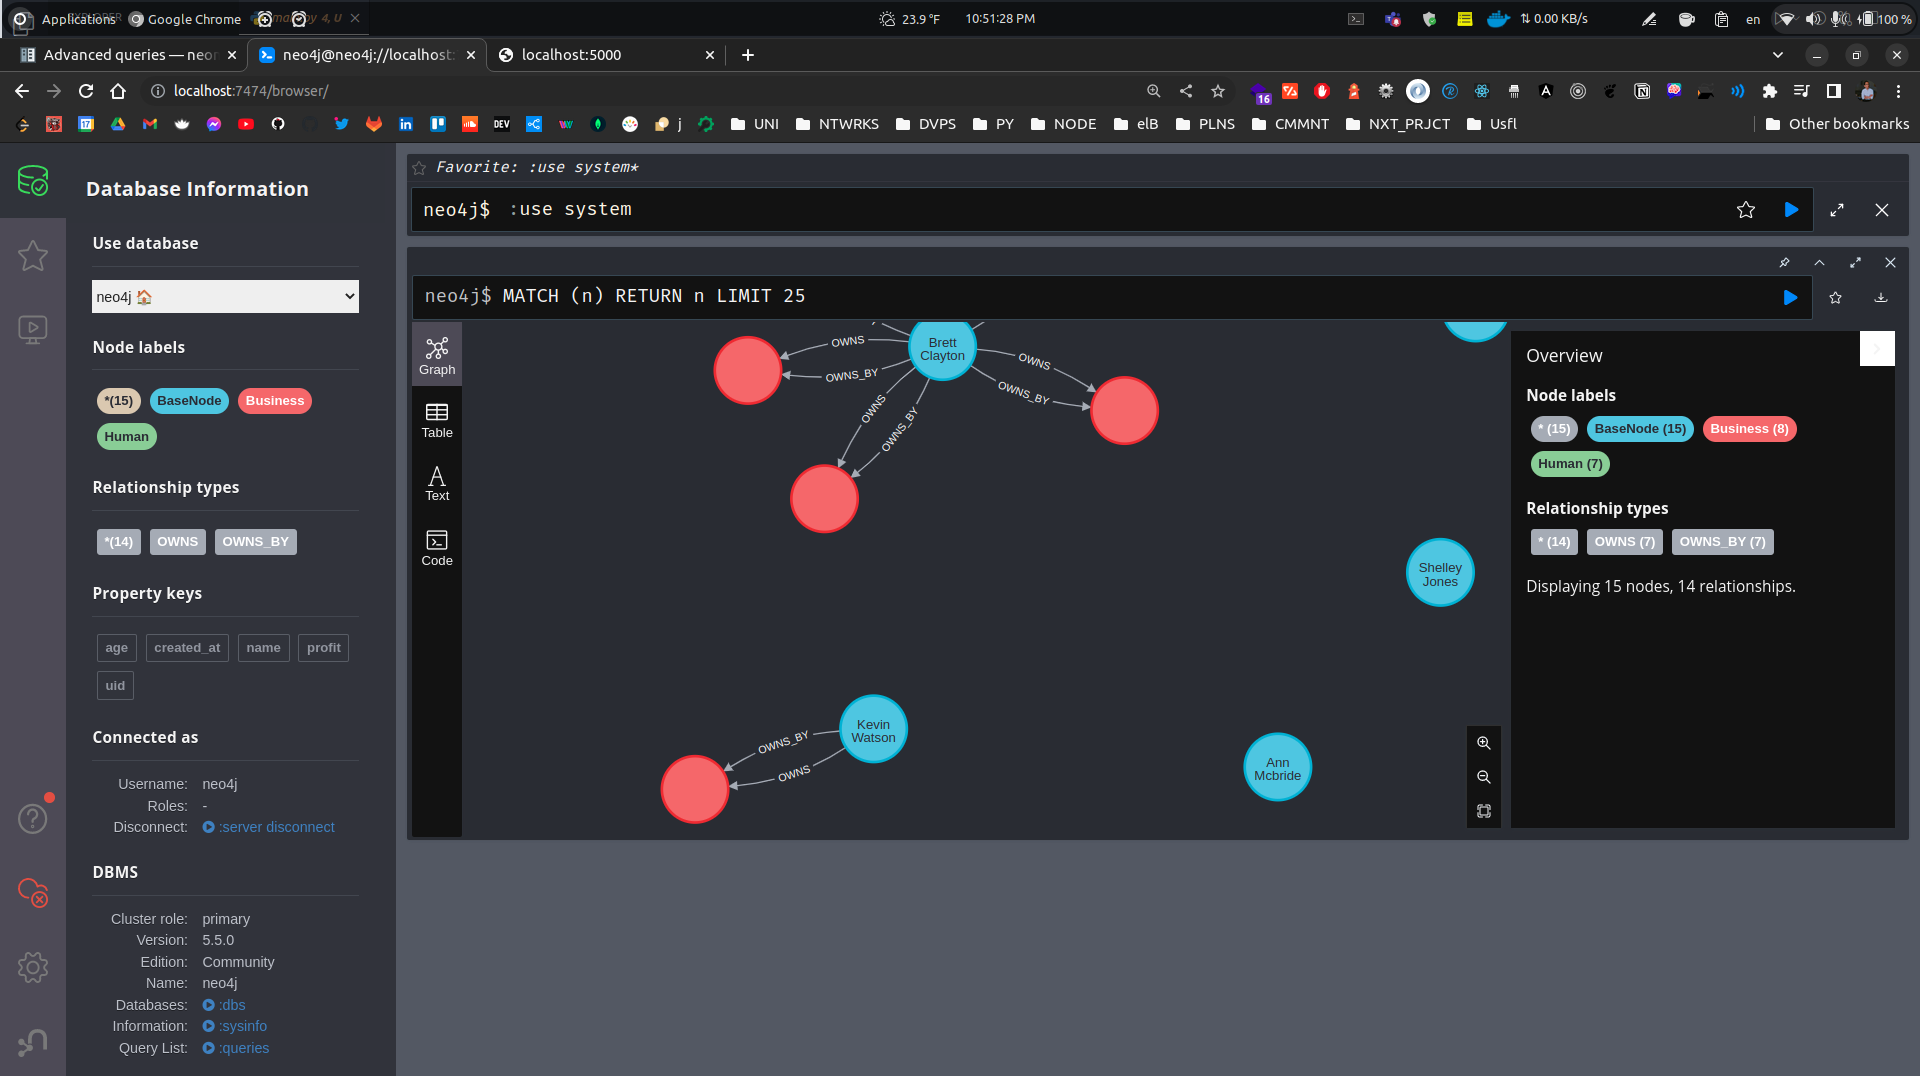
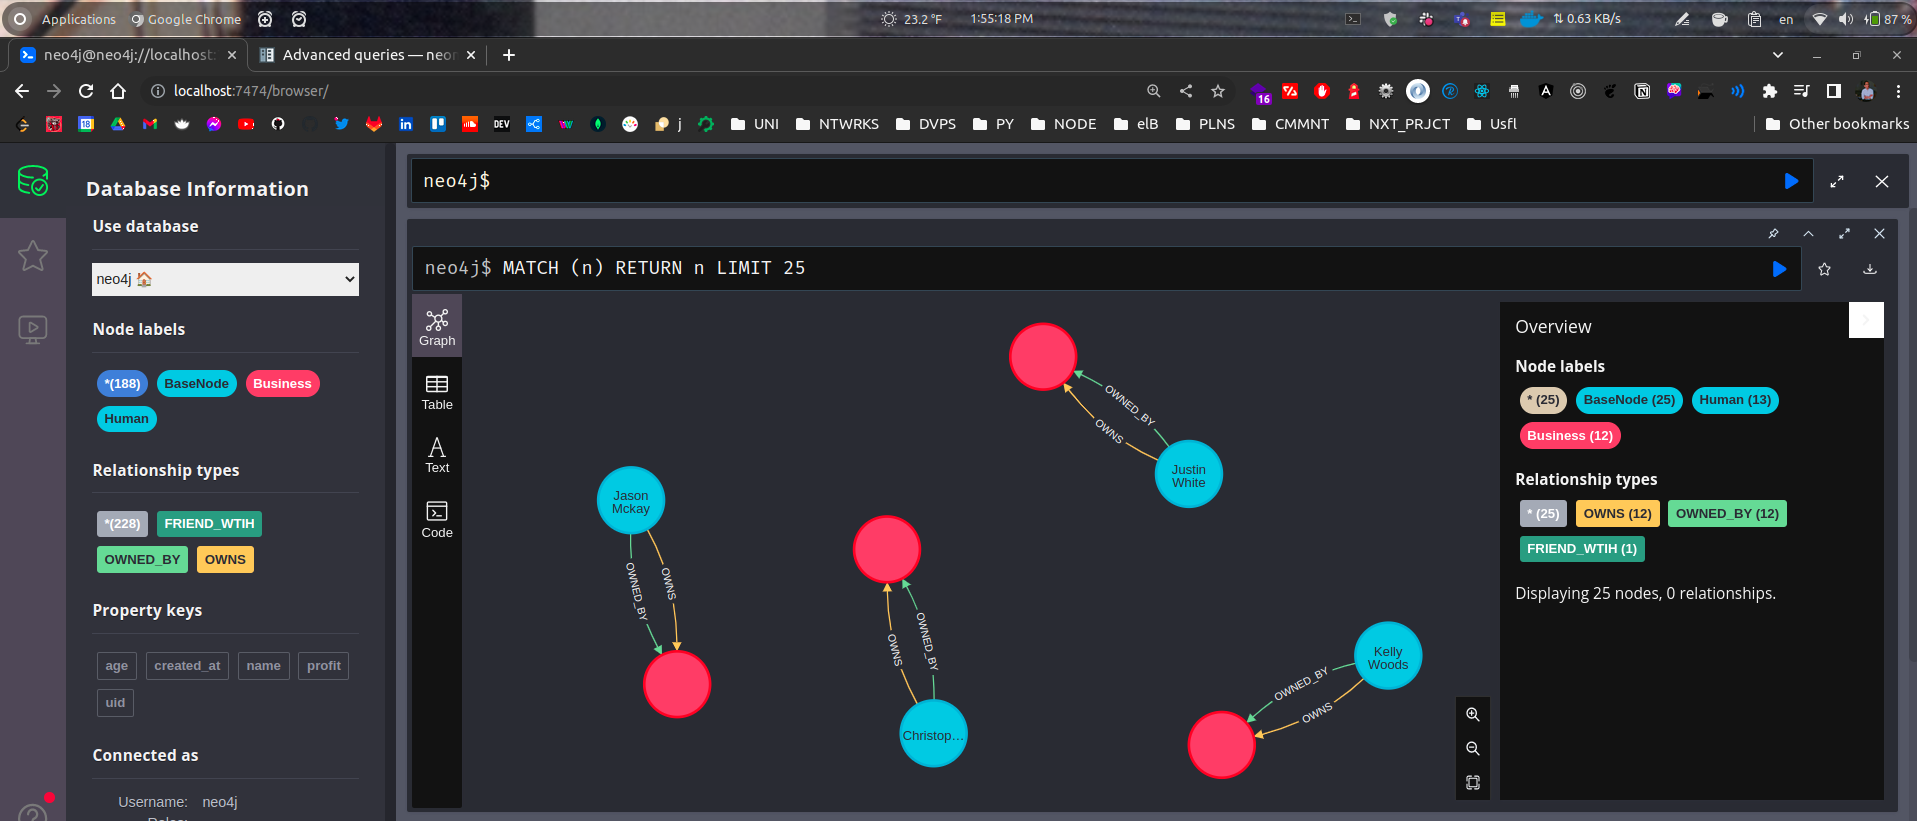
pre-commit hook and readme details

diff --git a/src/main.py b/src/main.py
@@ -1,53 +1,62 @@
-from flask import Flask, jsonify, request, make_response
+from __future__ import annotations
+
 from faker import Faker
+from flask import Flask
+from flask import jsonify
+from flask import make_response
+from flask import request
 from neomodel import config
 
-from .models import *
 from .db import get_db_url
-from faker import Faker
-
+from .models import *
+from .utils import *
 
 app = Flask(__name__)
-
 fake = Faker()
 config.DATABASE_URL = get_db_url()
 
 
-@app.route("/human", methods=["GET", "POST"])
+@app.route('/human', methods=['GET', 'POST'])
 def humans():
-    if request.method == "GET":
-        humans = Human.nodes.all()
-        return make_response(jsonify([h.to_json() for h in humans]), 200)
-    if request.method == "POST":
-        name = fake.name()
-        age = fake.random_int(min=18, max=100)
-        human = Human(name=name, age=age).save()
+    if request.method == 'GET':
+        return make_response(jsonify([h.to_json() for h in Human.nodes.all()]), 200)
+    if request.method == 'POST':
+        human = seed_human()
         return make_response(jsonify(human.to_json()), 201)
 
 
-@app.route("/business", methods=["GET", "POST"])
+@app.route('/human/make_friendship', methods=['GET'])
+def make_friendship():
+    new_human = Human.nodes.order_by('-created_at').first()
+    old_human = Human.nodes.order_by('created_at').first()
+    new_human.friends_with.connect(old_human)
+    return make_response(jsonify(new_human.to_json()), 201)
+
+
+@app.route('/business', methods=['GET', 'POST'])
 def business():
-    if request.method == "GET":
+    if request.method == 'GET':
         businesses = Business.nodes.all()
         return make_response(jsonify([b.to_json() for b in businesses]), 200)
-    if request.method == "POST":
-        profit = fake.random_int(min=10000, max=1000000)
-        business = Business(profit=profit).save()
-
-        human = Human.nodes.order_by("-created_at").first()
-
-        human.owns.connect(business)
-        business.owner.connect(human)
+    if request.method == 'POST':
+        human = Human.nodes.order_by('-created_at').first()
+        business = seed_business(human)
         return make_response(jsonify(business.to_json()), 201)
 
 
-@app.route("/")
+@app.route('/')
 def index():
+    open_up_shop = fake.random_int(min=5, max=10)
+    [seed_business(seed_human()) for i in range(open_up_shop)]
     return make_response(
-        f"total humans = {Human().nodes.all().__len__()} , total businesses = {Business().nodes.all().__len__()}",
-        200,
+        {
+            'total_humans': Human().nodes.all().__len__(),
+            'total_businesses': Business().nodes.all().__len__(),
+            'new_opportunities': open_up_shop,
+        },
+        201,
     )
 
 
-if __name__ == "__main__":
+if __name__ == '__main__':
     app.run()

diff --git a/src/models.py b/src/models.py
@@ -1,14 +1,16 @@
-from neomodel import (
-    StructuredNode,
-    StringProperty,
-    IntegerProperty,
-    RelationshipTo,
-    RelationshipFrom,
-    DateTimeProperty,
-)
-from .constant import Relation
+from __future__ import annotations
+
 import datetime
 import uuid
+
+from neomodel import DateTimeProperty
+from neomodel import IntegerProperty
+from neomodel import RelationshipFrom
+from neomodel import RelationshipTo
+from neomodel import StringProperty
+from neomodel import StructuredNode
+
+from .constant import Relation
 
 
 class BaseNode(StructuredNode):
@@ -16,18 +18,18 @@ class BaseNode(StructuredNode):
     created_at = DateTimeProperty(default=datetime.datetime.now())
 
     def to_json(self):
-        return {"uid": self.uid, "created_at": self.created_at.isoformat()}
+        return {'uid': self.uid, 'created_at': self.created_at.isoformat()}
 
 
 class Business(BaseNode):
     profit = IntegerProperty(default=0)
-    owner = RelationshipFrom("Human", Relation.OWNED_BY.value)
+    owner = RelationshipFrom('Human', Relation.OWNED_BY.value)
 
     def to_json(self):
         json_data = super().to_json()
         json_data.update(
             {
-                "profit": self.profit,
+                'profit': self.profit,
             }
         )
         return json_data
@@ -37,16 +39,15 @@ class Human(BaseNode):
     name = StringProperty(unique_index=True)
     age = IntegerProperty(index=True, default=18)
     owns = RelationshipTo(Business, Relation.OWNS.value)
-    friends_with = RelationshipTo("Human", Relation.FRIEND_WTIH.value)
+    friends_with = RelationshipTo('Human', Relation.FRIEND_WTIH.value)
 
     def to_json(self):
         json_data = super().to_json()
         json_data.update(
             {
-                "name": self.name,
-                "age": self.age,
-                "businesses": [b.to_json() for b in self.owns.all()],
-                "friends": [f.to_json() for f in self.friends_with.all()],
+                'name': self.name,
+                'age': self.age,
+                'businesses': [b.to_json() for b in self.owns.all()],
             }
         )
         return json_data

diff --git a/src/db.py b/src/db.py
@@ -1,11 +1,14 @@
-from dotenv import load_dotenv
+from __future__ import annotations
+
 import os
+
+from dotenv import load_dotenv
 
 
 def get_db_url():
     load_dotenv()
-    user = os.environ.get("DB_USER")
-    password = os.environ.get("DB_PASSWORD")
-    db_host = os.environ.get("DB_HOST", default="localhost")
-    db_port = os.environ.get("DB_PORT", default=7687)
-    return f"bolt://{user}:{password}@{db_host}:{db_port}"
+    user = os.environ.get('DB_USER')
+    password = os.environ.get('DB_PASSWORD')
+    db_host = os.environ.get('DB_HOST', default='localhost')
+    db_port = os.environ.get('DB_PORT', default=7687)
+    return f'bolt://{user}:{password}@{db_host}:{db_port}'

diff --git a/src/utils.py b/src/utils.py
@@ -1,0 +1,21 @@
+from __future__ import annotations
+
+from faker import Faker
+
+from .models import *
+
+fake = Faker()
+
+
+def seed_human() -> Human:
+    name = fake.name()
+    age = fake.random_int(min=18, max=100)
+    return Human(name=name, age=age).save()
+
+
+def seed_business(human: Human) -> Business:
+    profit = fake.random_int(min=10000, max=1000000)
+    business = Business(profit=profit).save()
+    human.owns.connect(business)
+    business.owner.connect(human)
+    return business

diff --git a/src/constant.py b/src/constant.py
@@ -1,6 +1,9 @@
+from __future__ import annotations
+
 from enum import Enum
 
+
 class Relation(str, Enum):
-    FRIEND_WTIH = "FRIEND_WTIH"
-    OWNS = "OWNS"
-    OWNED_BY = "OWNED_BY"
+    FRIEND_WTIH = 'FRIEND_WTIH'
+    OWNS = 'OWNS'
+    OWNED_BY = 'OWNED_BY'

diff --git a/README.md b/README.md
@@ -2,6 +2,8 @@
 
 a demo project to working with a graph database, mainly having two endpoint to insert and read data.
 
+### requirements:
+
 **Pip**: 22.0.4
 
 **Python**: 3.8.16
@@ -9,13 +11,15 @@ a demo project to working with a graph database, mainly having two endpoint to i
 ```sh
 ├── README.md
 ├── docker-compose.yml
-├── main.py (server proc)
-├── neo4j
-|  ├── data
-|  ├── import
-|  ├── logs
-|  └── plugins
 ├── requirements.txt
+├── screenshot.png
+├── src
+|  ├── __init__.py
+|  ├── __pycache__
+|  ├── constant.py
+|  ├── db.py
+|  ├── main.py
+|  └── models.py
 └── venv
 ```
 
@@ -40,32 +44,75 @@ docker-compose up -d
 start the project:
 
 ```sh
-flask --app main.py --debug run
+flask --app src/main.py --debug run
 ```
 
-in your browser check "http://localhost:5000/", and it should return totals:
+in your browser check "http://localhost:5000/", and it will run a seed script and return totals:
 
 ```json
   total humans = 7 , total businesses = 9
 ```
 
+### Human
+
 now, doing an empty POST on "http://localhost:5000/human", should create a new human and return it's data:
 
 ```json
-  {
-  uid: "93f8ed0e-af0b-11ed-96f6-d7b46fcf4698"
-  name: "Ann Mcbride",
-  age: 84,
-  created_at: "2023-02-17T22:39:38.041960+00:00",
-  friends: [ ],
-  businesses: [ ],
-  }
+{
+    "uid": "0a788d76-af8a-11ed-b23b-45cbc219d73c",
+    "name": "Sean Novak",
+    "age": 90,
+    "businesses": [
+      {
+        "uid": "0a788d76-af8a-11ed-b23b-45cbc219d73c",
+        "created_at": "2023-02-18T13:44:53.437408+00:00",
+        "profit": 848288
+      }
+    ],
+    "created_at": "2023-02-18T13:44:53.437408+00:00"
+  },
 ```
 
-you can also do a GET to get a list of humans ...
+you can also do a GET to get a list of all humans...
 
-doing an empty POST on "http://localhost:5000/business", should create a new business and add a **RelationshipTo** the last created human...
-also GET list of businesses is available.
+doing a GET on "http://localhost:5000/human/make_friendship", should create a **FRIEND_WTIH** relation between (first/last) humans:
+
+```json
+{
+  "name": "Vanessa Rodriguez",
+  "uid": "bfa37f9e-af8a-11ed-b23b-45cbc219d73c",
+  "age": 60,
+  "businesses": [
+    {
+      "created_at": "2023-02-18T13:49:57.386466+00:00",
+      "profit": 588887,
+      "uid": "bfa37f9e-af8a-11ed-b23b-45cbc219d73c"
+    },
+    {
+      "created_at": "2023-02-18T13:49:57.386466+00:00",
+      "profit": 118838,
+      "uid": "bfa37f9e-af8a-11ed-b23b-45cbc219d73c"
+    }
+  ],
+  "created_at": "2023-02-18T13:49:57.386466+00:00"
+}
+```
+
+---
+
+### Business
+
+doing an empty POST on "http://localhost:5000/business", should create a new business **OWNED_BY** the last created human...
+
+```json
+{
+  "created_at": "2023-02-18T13:44:53.437408+00:00",
+  "profit": 848288,
+  "uid": "0a788d76-af8a-11ed-b23b-45cbc219d73c"
+}
+```
+
+you can also do a GET to get a list of all businesses...
 
 ---
 
